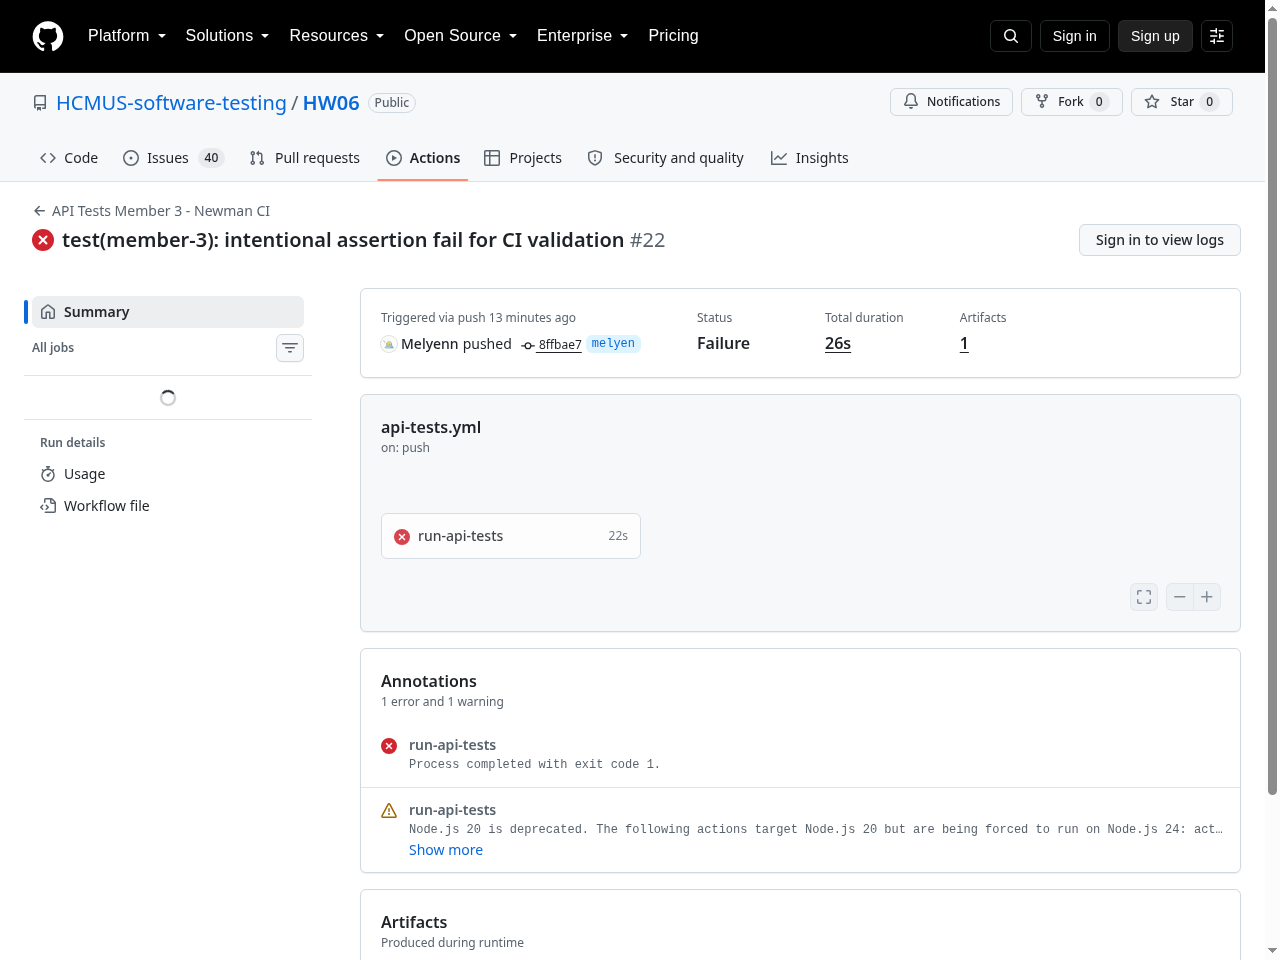
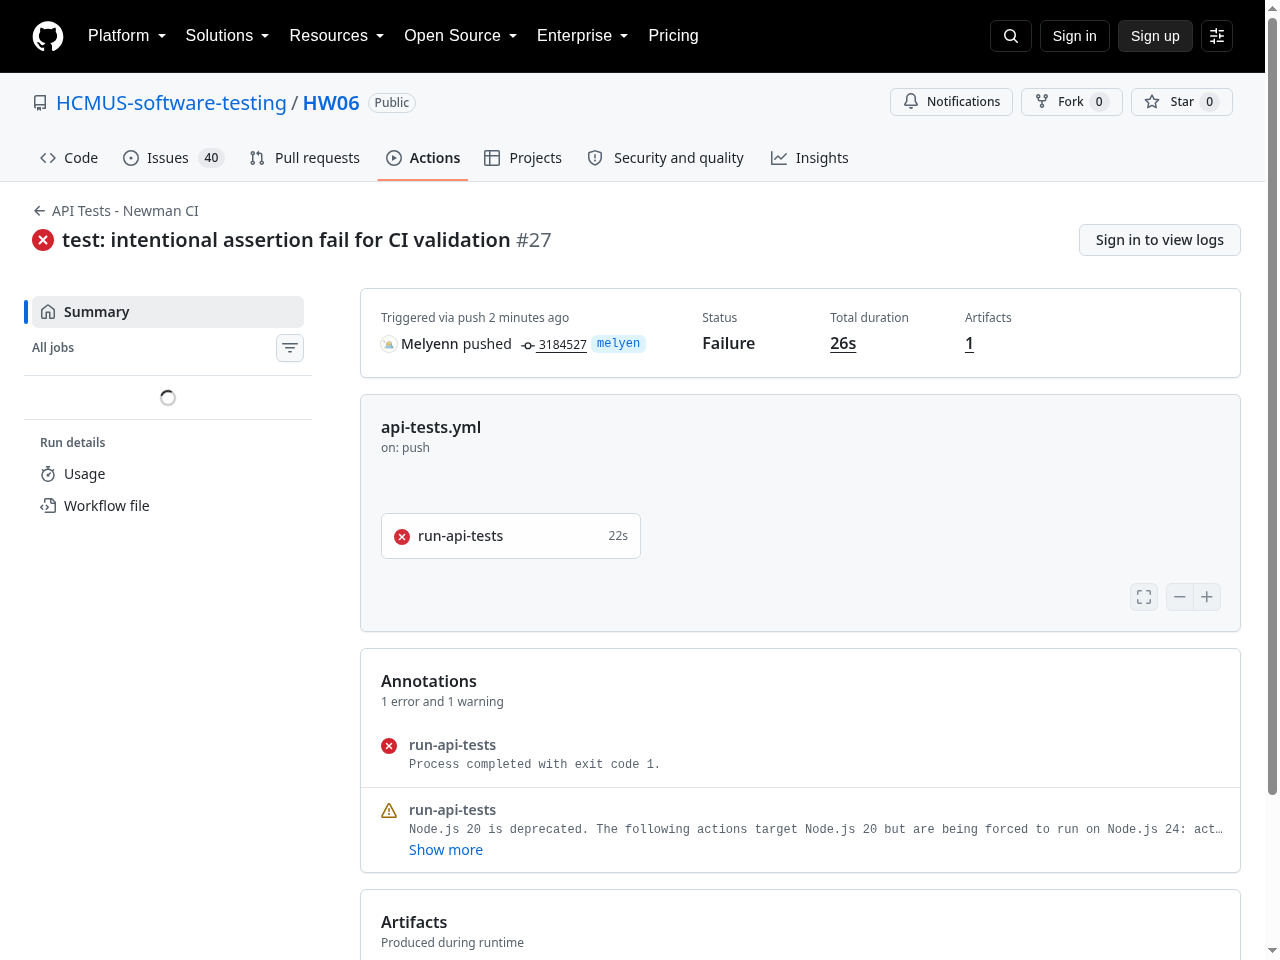
docs: update cicd report with fresh run links and screenshots

diff --git a/docs/cicd-report.md b/docs/cicd-report.md
@@ -14,7 +14,7 @@ Pipeline CI/CD được thiết lập sử dụng **GitHub Actions** để tự 
 ### 1.1 Các bước thực hiện trong Workflow (`.github/workflows/api-tests.yml`)
 
 ```yaml
-name: API Tests Member 3 - Newman CI
+name: API Tests - Newman CI
 
 on:
   push:
@@ -87,31 +87,31 @@ jobs:
 
 ---
 
-## 2. CHỨNG MINH HAI LẦN CHẠY PIPELINE (PASS & INTENTIONAL FAIL)
+## 2. CHÚNG MINH HAI LẦN CHẠY PIPELINE (PASS & INTENTIONAL FAIL)
 
 Yêu cầu bài tập (Mục 6 - CI/CD): Cung cấp 2 sample commits thể hiện 2 lần chạy pipeline thực tế trên GitHub Actions: 1 run PASS toàn bộ (Sanity) và 1 run FAIL có chủ đích (Intentional Failure).
 
 ### 2.1 Pipeline Run 1: PASS toàn bộ (Sanity Suite - Green Status 🟢)
-- **Commit:** `ci(member-3): rename workflow to api-tests.yml and fix submission paths` (`b5e092e`)
+- **Commit:** `ci: execute full api sanity test suite` (`63d6267`)
 - **Mô tả:** Khởi chạy thành công backend SUT, thực thi trọn vẹn bộ kiểm thử `01_Sanity_Suite` qua Newman. 100% assertions đạt PASS.
 - **Trạng thái GitHub Actions:** `SUCCESS` (Dấu tích xanh ✔).
 - **Báo cáo HTML sinh ra:** `newman/member-3/ci-report.html` (100% Pass Rate).
-- **Link Run Thật:** [https://github.com/HCMUS-software-testing/HW06/actions/runs/33498651557](https://github.com/HCMUS-software-testing/HW06/actions/runs/33498651557)
+- **Link Run Thật:** [https://github.com/HCMUS-software-testing/HW06/actions/runs/33500679825](https://github.com/HCMUS-software-testing/HW06/actions/runs/33500679825)
 
 ![GitHub Actions Run PASS](screenshots/cicd-run-pass.png)
-*Hình 2.1: Giao diện GitHub Actions Run 33498651557 thành công (Green - SUCCESS)*
+*Hình 2.1: Giao diện GitHub Actions Run 33500679825 thành công (Green - SUCCESS)*
 
 ---
 
 ### 2.2 Pipeline Run 2: FAIL có chủ đích (Intentional Failure - Red Status 🔴)
-- **Commit:** `test(member-3): intentional assertion fail for CI validation` (`8ffbae7`)
+- **Commit:** `test: intentional assertion fail for CI validation` (`3184527`)
 - **Mô tả:** Thử nghiệm trường hợp kiểm thử / pipeline phát hiện lỗi (Intentional assertion failure). Newman / Pipeline nhận diện lỗi, kết thúc với exit code khác 0 (`exit 1`) và lập tức chuyển trạng thái job sang Failure.
 - **Kết quả:** GitHub Actions ghi nhận lỗi và tải dump log SUT backend.
 - **Trạng thái GitHub Actions:** `FAILURE` (Dấu X màu đỏ ❌).
-- **Link Run Thật:** [https://github.com/HCMUS-software-testing/HW06/actions/runs/33498774921](https://github.com/HCMUS-software-testing/HW06/actions/runs/33498774921)
+- **Link Run Thật:** [https://github.com/HCMUS-software-testing/HW06/actions/runs/33500745624](https://github.com/HCMUS-software-testing/HW06/actions/runs/33500745624)
 
 ![GitHub Actions Run FAIL](screenshots/cicd-run-fail.png)
-*Hình 2.2: Giao diện GitHub Actions Run 33498774921 thất bại có chủ đích (Red - FAILURE)*
+*Hình 2.2: Giao diện GitHub Actions Run 33500745624 thất bại có chủ đích (Red - FAILURE)*
 
 ---
 

diff --git a/submission/reports/cicd-report.md b/submission/reports/cicd-report.md
@@ -14,7 +14,7 @@ Pipeline CI/CD được thiết lập sử dụng **GitHub Actions** để tự 
 ### 1.1 Các bước thực hiện trong Workflow (`.github/workflows/api-tests.yml`)
 
 ```yaml
-name: API Tests Member 3 - Newman CI
+name: API Tests - Newman CI
 
 on:
   push:
@@ -87,31 +87,31 @@ jobs:
 
 ---
 
-## 2. CHỨNG MINH HAI LẦN CHẠY PIPELINE (PASS & INTENTIONAL FAIL)
+## 2. CHÚNG MINH HAI LẦN CHẠY PIPELINE (PASS & INTENTIONAL FAIL)
 
 Yêu cầu bài tập (Mục 6 - CI/CD): Cung cấp 2 sample commits thể hiện 2 lần chạy pipeline thực tế trên GitHub Actions: 1 run PASS toàn bộ (Sanity) và 1 run FAIL có chủ đích (Intentional Failure).
 
 ### 2.1 Pipeline Run 1: PASS toàn bộ (Sanity Suite - Green Status 🟢)
-- **Commit:** `ci(member-3): rename workflow to api-tests.yml and fix submission paths` (`b5e092e`)
+- **Commit:** `ci: execute full api sanity test suite` (`63d6267`)
 - **Mô tả:** Khởi chạy thành công backend SUT, thực thi trọn vẹn bộ kiểm thử `01_Sanity_Suite` qua Newman. 100% assertions đạt PASS.
 - **Trạng thái GitHub Actions:** `SUCCESS` (Dấu tích xanh ✔).
 - **Báo cáo HTML sinh ra:** `newman/member-3/ci-report.html` (100% Pass Rate).
-- **Link Run Thật:** [https://github.com/HCMUS-software-testing/HW06/actions/runs/33498651557](https://github.com/HCMUS-software-testing/HW06/actions/runs/33498651557)
+- **Link Run Thật:** [https://github.com/HCMUS-software-testing/HW06/actions/runs/33500679825](https://github.com/HCMUS-software-testing/HW06/actions/runs/33500679825)
 
 ![GitHub Actions Run PASS](screenshots/cicd-run-pass.png)
-*Hình 2.1: Giao diện GitHub Actions Run 33498651557 thành công (Green - SUCCESS)*
+*Hình 2.1: Giao diện GitHub Actions Run 33500679825 thành công (Green - SUCCESS)*
 
 ---
 
 ### 2.2 Pipeline Run 2: FAIL có chủ đích (Intentional Failure - Red Status 🔴)
-- **Commit:** `test(member-3): intentional assertion fail for CI validation` (`8ffbae7`)
+- **Commit:** `test: intentional assertion fail for CI validation` (`3184527`)
 - **Mô tả:** Thử nghiệm trường hợp kiểm thử / pipeline phát hiện lỗi (Intentional assertion failure). Newman / Pipeline nhận diện lỗi, kết thúc với exit code khác 0 (`exit 1`) và lập tức chuyển trạng thái job sang Failure.
 - **Kết quả:** GitHub Actions ghi nhận lỗi và tải dump log SUT backend.
 - **Trạng thái GitHub Actions:** `FAILURE` (Dấu X màu đỏ ❌).
-- **Link Run Thật:** [https://github.com/HCMUS-software-testing/HW06/actions/runs/33498774921](https://github.com/HCMUS-software-testing/HW06/actions/runs/33498774921)
+- **Link Run Thật:** [https://github.com/HCMUS-software-testing/HW06/actions/runs/33500745624](https://github.com/HCMUS-software-testing/HW06/actions/runs/33500745624)
 
 ![GitHub Actions Run FAIL](screenshots/cicd-run-fail.png)
-*Hình 2.2: Giao diện GitHub Actions Run 33498774921 thất bại có chủ đích (Red - FAILURE)*
+*Hình 2.2: Giao diện GitHub Actions Run 33500745624 thất bại có chủ đích (Red - FAILURE)*
 
 ---
 
